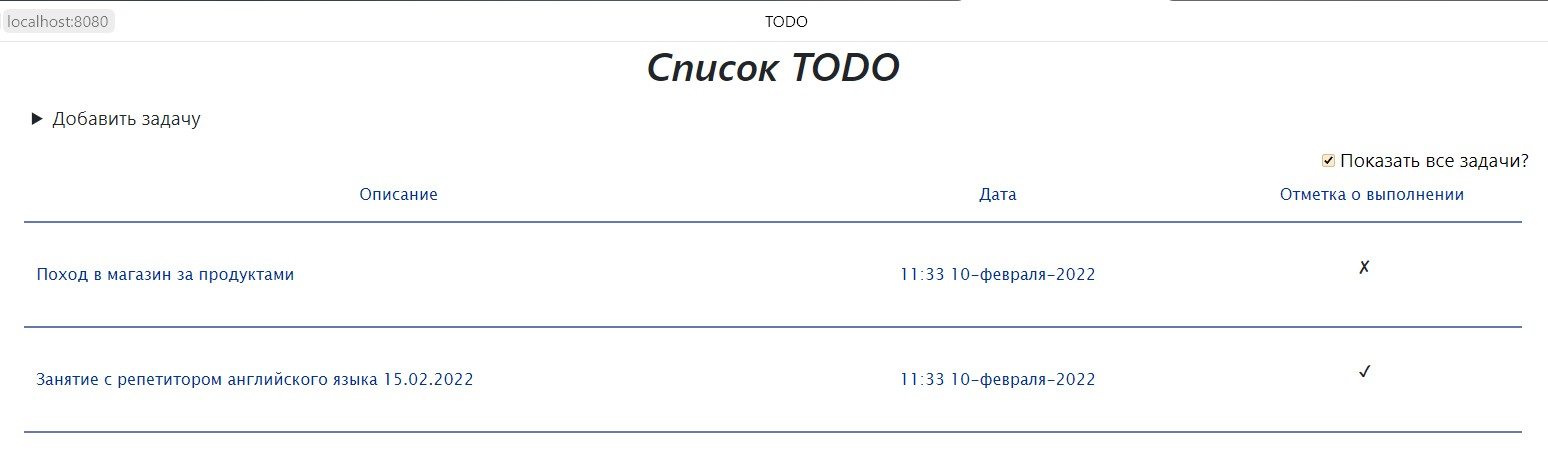
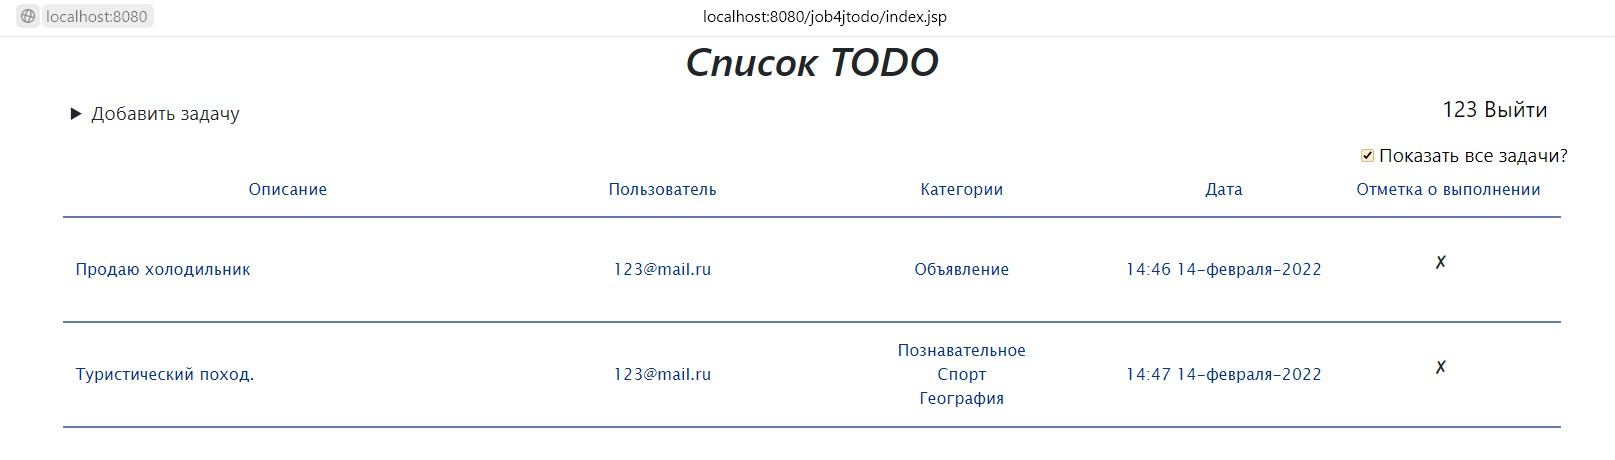
4. Категории в TODO List [#331991]

diff --git a/src/main/webapp/js/filter.js b/src/main/webapp/js/filter.js
@@ -6,17 +6,23 @@ function filter() {
             url: 'http://localhost:8080/job4jtodo/filterItem',
             dataType: 'json'
         }).done(function (data) {
+            let result = '';
             for (let item of data) {
+                for (let categ of item.categories.values()) {
+                    result = result + categ.name + '<br>';
+                }
                 let done = item.done ? '&#10004' : '&#10008';
                 $('#items').append(
                     `<tr>
                                     <th>${item.description}</th>
-                                    <th>${item.user}</th>
+                                    <th style="text-align:center">${item.user.email}</th>
+                                     <th style="text-align:center">${result}</th>
                                     <th style="text-align:center">${item.created}</th>
                                     <th style="text-align:center" id="${item.id}">
                                     <button type="submit" class="btn" onclick="update(${item.id}, ${item.done});">${done}</th>
                                     </tr>`
                 )
+                result = '';
             }
         }).fail(function (err) {
             console.log(err);
@@ -27,17 +33,23 @@ function filter() {
             url: 'http://localhost:8080/job4jtodo/list',
             dataType: 'json'
         }).done(function (data) {
+            let result = '';
             for (let item of data) {
+                for (let categ of item.categories.values()) {
+                    result = result + categ.name + '<br>';
+                }
                 let done = item.done ? '&#10004' : '&#10008';
                 $('#items').append(
                     `<tr>
                                     <th>${item.description}</th>
                                     <th style="text-align:center">${item.user.email}</th>
+                                    <th style="text-align:center">${result}</th>
                                     <th style="text-align:center">${item.created}</th>
                                     <th style="text-align:center" id="${item.id}">
                                     <button type="submit" class="btn" onclick="update(${item.id}, ${item.done});">${done}</th>
                                     </tr>`
                 )
+                result = '';
             }
         }).fail(function (err) {
             console.log(err);

diff --git a/src/main/webapp/js/sendItem.js b/src/main/webapp/js/sendItem.js
@@ -8,12 +8,20 @@ function sendItem(user) {
     $.ajax({
         type: 'POST',
         url: 'http://localhost:8080/job4jtodo/addItem',
-        data: 'description=' + $('#descriptionItem').val(),
+        data: {
+            'description': $('#descriptionItem').val(),
+             'ids' : $('#catIds').val()
+        },
         dataType: 'json'
     }).done(function (data) {
+        let resultData = '';
+        for (let categ of data.categories.values()) {
+            resultData = resultData + categ.name + '<br>';
+        }
         $('#items tr:last').append(`<tr>
                                     <th>${data.description}</th>
                                     <th style="text-align:center">${data.user.email}</th>
+                                    <th style="text-align:center">${resultData}</th>
                                     <th style="text-align:center">${data.created}</th>
                                     <th style="text-align:center" id="${data.id}">
                                     <button type="submit" class="btn" onclick="update(${data.id}, ${data.done});">&#10008</th>
@@ -21,5 +29,6 @@ function sendItem(user) {
     }).fail(function (err) {
         console.log(err);
     });
+    resultData = '';
     return true;
 }

diff --git a/src/main/webapp/js/startList.js b/src/main/webapp/js/startList.js
@@ -4,22 +4,32 @@ $(document).ready(function() {
         url: 'http://localhost:8080/job4jtodo/list',
         dataType: 'json'
     }).done(function (data) {
+        let result = '';
         for (let item of data) {
+            for (let categ of item.categories.values()) {
+                result = result + categ.name + '<br>';
+            }
             let done = item.done ? '&#10004' : '&#10008';
             $('#items').append(
                 `<tr>
                                     <th>${item.description}</th>
                                     <th style="text-align:center">${item.user.email}</th>
+                                    <th style="text-align:center">${result}</th>
                                     <th style="text-align:center">${item.created}</th>
                                     <th style="text-align:center" id="${item.id}">
                                     <button type="submit" class="btn" onclick="update(${item.id}, ${item.done});">${done}</th>
                                     </tr>`
             )
+            result = '';
         }
     }).fail(function (err) {
         console.log(err);
     })
-})
+});
+
+
+
+
 
 
 

diff --git a/src/main/webapp/js/startCategories.js b/src/main/webapp/js/startCategories.js
@@ -1,0 +1,19 @@
+$(document).ready(function() {
+    $.ajax({
+        type: 'GET',
+        url: 'http://localhost:8080/job4jtodo/allCategories',
+        dataType: 'json'
+    }).done(function (data) {
+        for (let category of data) {
+            $('#catIds').append(
+                `<option value="${category.id}">${category.name}</option>`
+            )
+        }
+    }).fail(function (err) {
+        console.log(err);
+    })
+})
+
+
+
+

diff --git a/src/main/java/ru/job4j/store/HbmStore.java b/src/main/java/ru/job4j/store/HbmStore.java
@@ -9,10 +9,12 @@ import org.hibernate.boot.registry.StandardServiceRegistryBuilder;
 import org.hibernate.query.Query;
 import org.slf4j.Logger;
 import org.slf4j.LoggerFactory;
+import ru.job4j.model.Category;
 import ru.job4j.model.Item;
 import ru.job4j.model.User;
 
 import java.util.Collection;
+import java.util.List;
 import java.util.function.Consumer;
 import java.util.function.Function;
 
@@ -36,14 +38,17 @@ public class HbmStore implements Store, AutoCloseable {
 
     @Override
     public Collection<Item> findAllItems() {
-        return this.tx(session -> session.createQuery("from ru.job4j.model.Item").list());
+        return this.tx(session -> session.createQuery(
+                "select distinct i from Item i join fetch i.categories"
+            ).list());
     }
 
     @Override
     public Collection<Item> findFilterItems(boolean isDone) {
         return this.tx(session -> {
                             Query query = session.createQuery(
-                                    "from ru.job4j.model.Item where done =:param"
+                                    "select distinct i from Item i "
+                                            + "join fetch i.categories where i.done = :param"
                                     );
                             query.setParameter("param", isDone);
                             return query.list();
@@ -109,6 +114,24 @@ public class HbmStore implements Store, AutoCloseable {
             query.setParameter("param", email);
             return (User) query.uniqueResult();
         });
+    }
+
+    @Override
+    public void addItem(Item item, String[] ids) {
+        this.makeTransaction(session -> {
+            for (String id : ids) {
+                Category category = session.find(Category.class, Integer.parseInt(id));
+                item.addCategory(category);
+            }
+            session.persist(item);
+        });
+    }
+
+    @Override
+    public List<Category> allCategories() {
+        return this.tx(session -> session.createQuery(
+                "select c from Category c", Category.class)
+                .list());
     }
 
     @Override

diff --git a/src/main/java/ru/job4j/model/Item.java b/src/main/java/ru/job4j/model/Item.java
@@ -2,7 +2,9 @@ package ru.job4j.model;
 
 import javax.persistence.*;
 import java.time.LocalDateTime;
+import java.util.HashSet;
 import java.util.Objects;
+import java.util.Set;
 
 @Entity
 @Table(name = "items")
@@ -14,9 +16,13 @@ public class Item {
     private String description;
     private LocalDateTime created;
     private boolean done;
+
     @ManyToOne
     @JoinColumn(name = "users_id")
     private User user;
+
+    @ManyToMany(cascade = {CascadeType.PERSIST, CascadeType.MERGE})
+    private Set<Category> categories = new HashSet<>();
 
     public Item() {
     }
@@ -34,6 +40,15 @@ public class Item {
     public Item(String description, LocalDateTime created, boolean done, User user) {
         this(description, created, done);
         this.user = user;
+    }
+
+    public Item(String description, LocalDateTime created, boolean done, User user,
+                Set<Category> categories) {
+        this.description = description;
+        this.created = created;
+        this.done = done;
+        this.user = user;
+        this.categories = categories;
     }
 
     public int getId() {
@@ -74,6 +89,18 @@ public class Item {
 
     public void setUser(User user) {
         this.user = user;
+    }
+
+    public Set<Category> getCategories() {
+        return categories;
+    }
+
+    public void setCategories(Set<Category> categories) {
+        this.categories = categories;
+    }
+
+    public void addCategory(Category category) {
+        this.categories.add(category);
     }
 
     @Override

diff --git a/src/main/java/ru/job4j/model/Category.java b/src/main/java/ru/job4j/model/Category.java
@@ -1,0 +1,53 @@
+package ru.job4j.model;
+
+import javax.persistence.*;
+import java.util.Objects;
+
+@Entity
+@Table(name = "categories")
+public class Category {
+    @Id
+    @GeneratedValue(strategy = GenerationType.IDENTITY)
+    private int id;
+    private String name;
+
+    public Category() {
+    }
+
+    public Category(String name) {
+        this.name = name;
+    }
+
+    public int getId() {
+        return id;
+    }
+
+    public void setId(int id) {
+        this.id = id;
+    }
+
+    public String getName() {
+        return name;
+    }
+
+    public void setName(String name) {
+        this.name = name;
+    }
+
+    @Override
+    public boolean equals(Object o) {
+        if (this == o) {
+            return true;
+        }
+        if (o == null || getClass() != o.getClass()) {
+            return false;
+        }
+        Category category = (Category) o;
+        return id == category.id;
+    }
+
+    @Override
+    public int hashCode() {
+        return Objects.hash(id);
+    }
+}

diff --git a/src/main/java/ru/job4j/servlets/AllCategoriesServlet.java b/src/main/java/ru/job4j/servlets/AllCategoriesServlet.java
@@ -1,0 +1,25 @@
+package ru.job4j.servlets;
+
+import com.google.gson.Gson;
+import com.google.gson.GsonBuilder;
+import ru.job4j.store.HbmStore;
+import javax.servlet.http.HttpServlet;
+import javax.servlet.http.HttpServletRequest;
+import javax.servlet.http.HttpServletResponse;
+import java.io.IOException;
+import java.io.OutputStream;
+import java.nio.charset.StandardCharsets;
+
+public class AllCategoriesServlet extends HttpServlet {
+    private static final Gson GSON = new GsonBuilder().create();
+
+    @Override
+    protected void doGet(HttpServletRequest req, HttpServletResponse resp) throws IOException {
+        resp.setContentType("application/json; charset=utf-8");
+        OutputStream output = resp.getOutputStream();
+        String json = GSON.toJson(HbmStore.instance().allCategories());
+        output.write(json.getBytes(StandardCharsets.UTF_8));
+        output.flush();
+        output.close();
+    }
+}

diff --git a/src/main/java/ru/job4j/servlets/AddItemServlet.java b/src/main/java/ru/job4j/servlets/AddItemServlet.java
@@ -23,10 +23,10 @@ public class AddItemServlet extends HttpServlet {
     @Override
     protected void doPost(HttpServletRequest req, HttpServletResponse resp) throws IOException {
         String desc = req.getParameter("description");
+        String[] ids = req.getParameterValues("ids[]");
         User user = (User) req.getSession().getAttribute("user");
         Item item = new Item(desc, LocalDateTime.now(), false, user);
-        HbmStore.instance().addItem(item);
-
+        HbmStore.instance().addItem(item, ids);
         String json = GSON.toJson(item);
         resp.setContentType("application/json; charset=utf-8");
         OutputStream output = resp.getOutputStream();

diff --git a/src/main/java/ru/job4j/store/Store.java b/src/main/java/ru/job4j/store/Store.java
@@ -1,9 +1,11 @@
 package ru.job4j.store;
 
+import ru.job4j.model.Category;
 import ru.job4j.model.Item;
 import ru.job4j.model.User;
 
 import java.util.Collection;
+import java.util.List;
 
 public interface Store {
 
@@ -17,6 +19,8 @@ public interface Store {
 
     void addItem(Item item);
 
+    void addItem(Item item, String[] ids);
+
     void removeItem(int id);
 
     void updateItem(int id, Item item);
@@ -26,4 +30,6 @@ public interface Store {
     User findUserById(int id);
 
     User findUserByEmail(String email);
+
+    List<Category> allCategories();
 }

diff --git a/README.md b/README.md
@@ -7,3 +7,5 @@
 ![ScreenShot](images/1.jpg)
 ![ScreenShot](images/2.jpg)
 ![ScreenShot](images/3.jpg)
+![ScreenShot](images/4.jpg)
+![ScreenShot](images/5.jpg)
